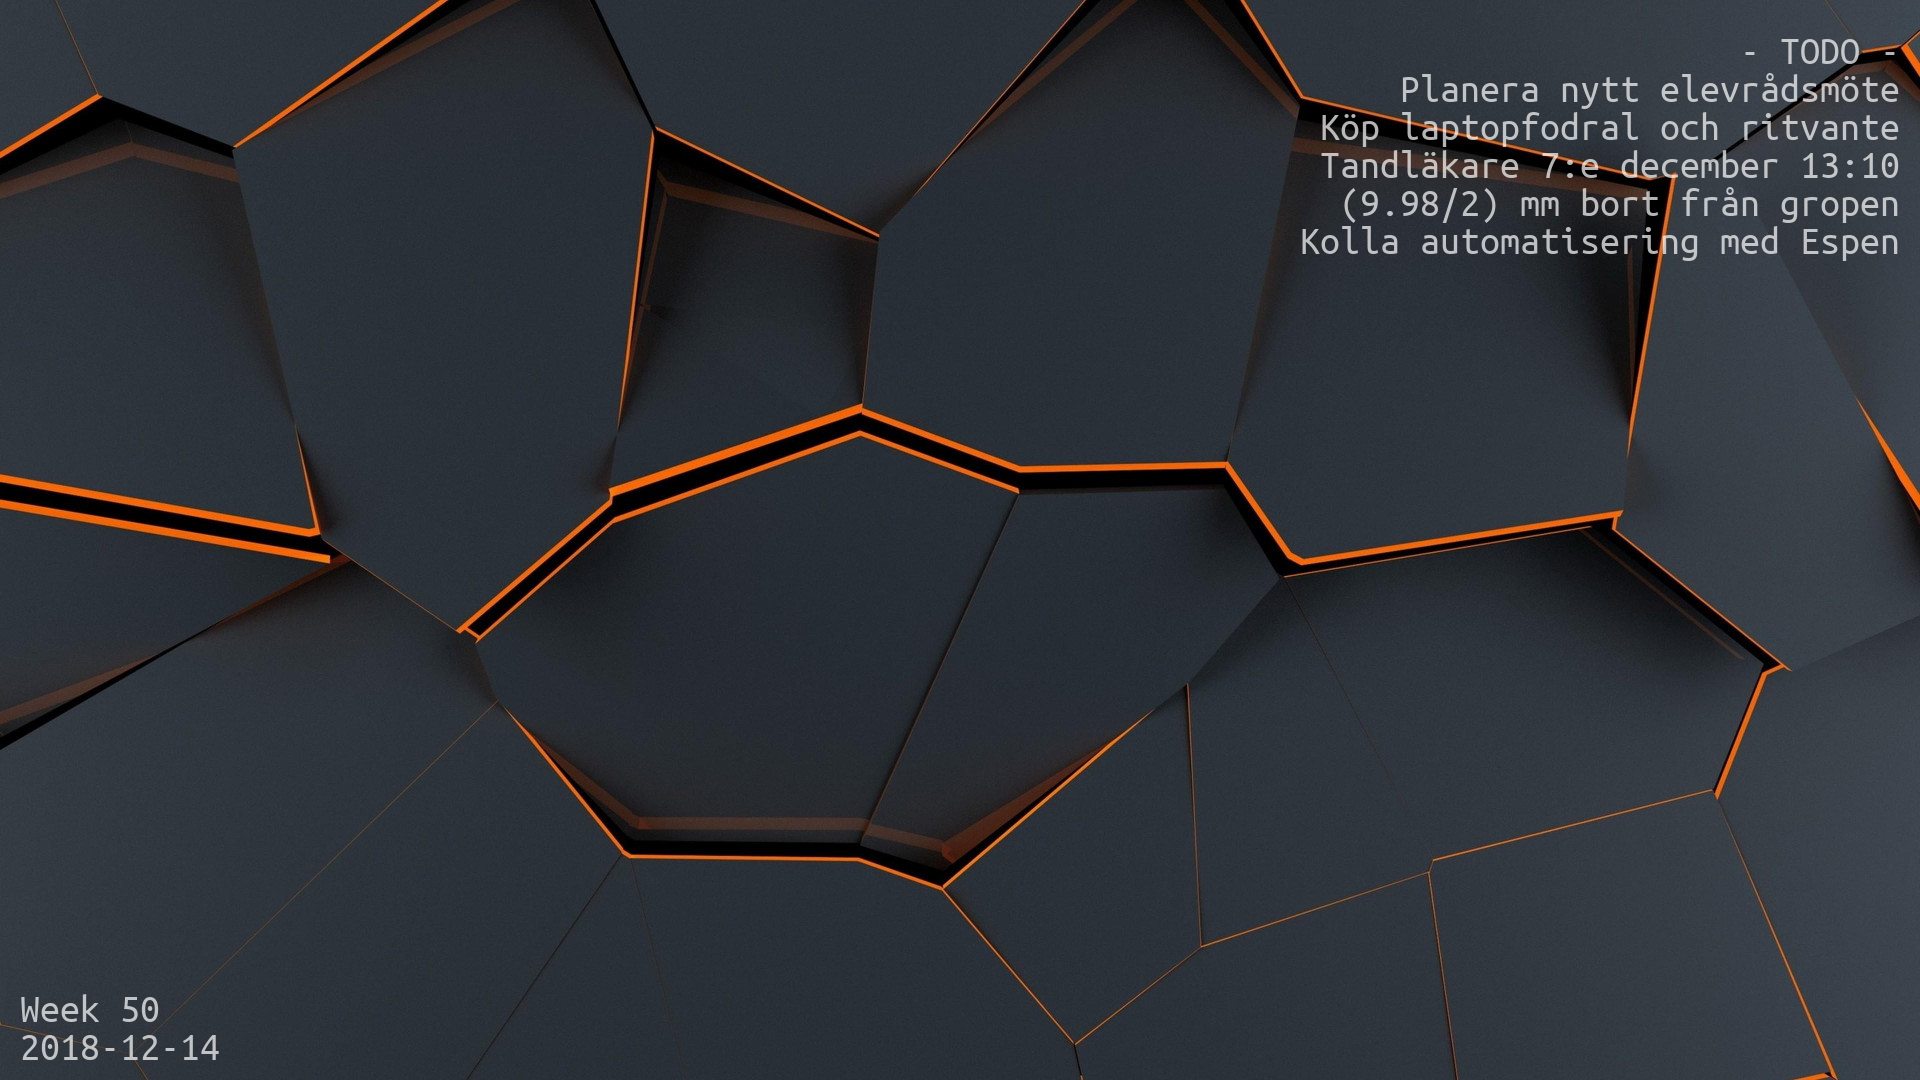
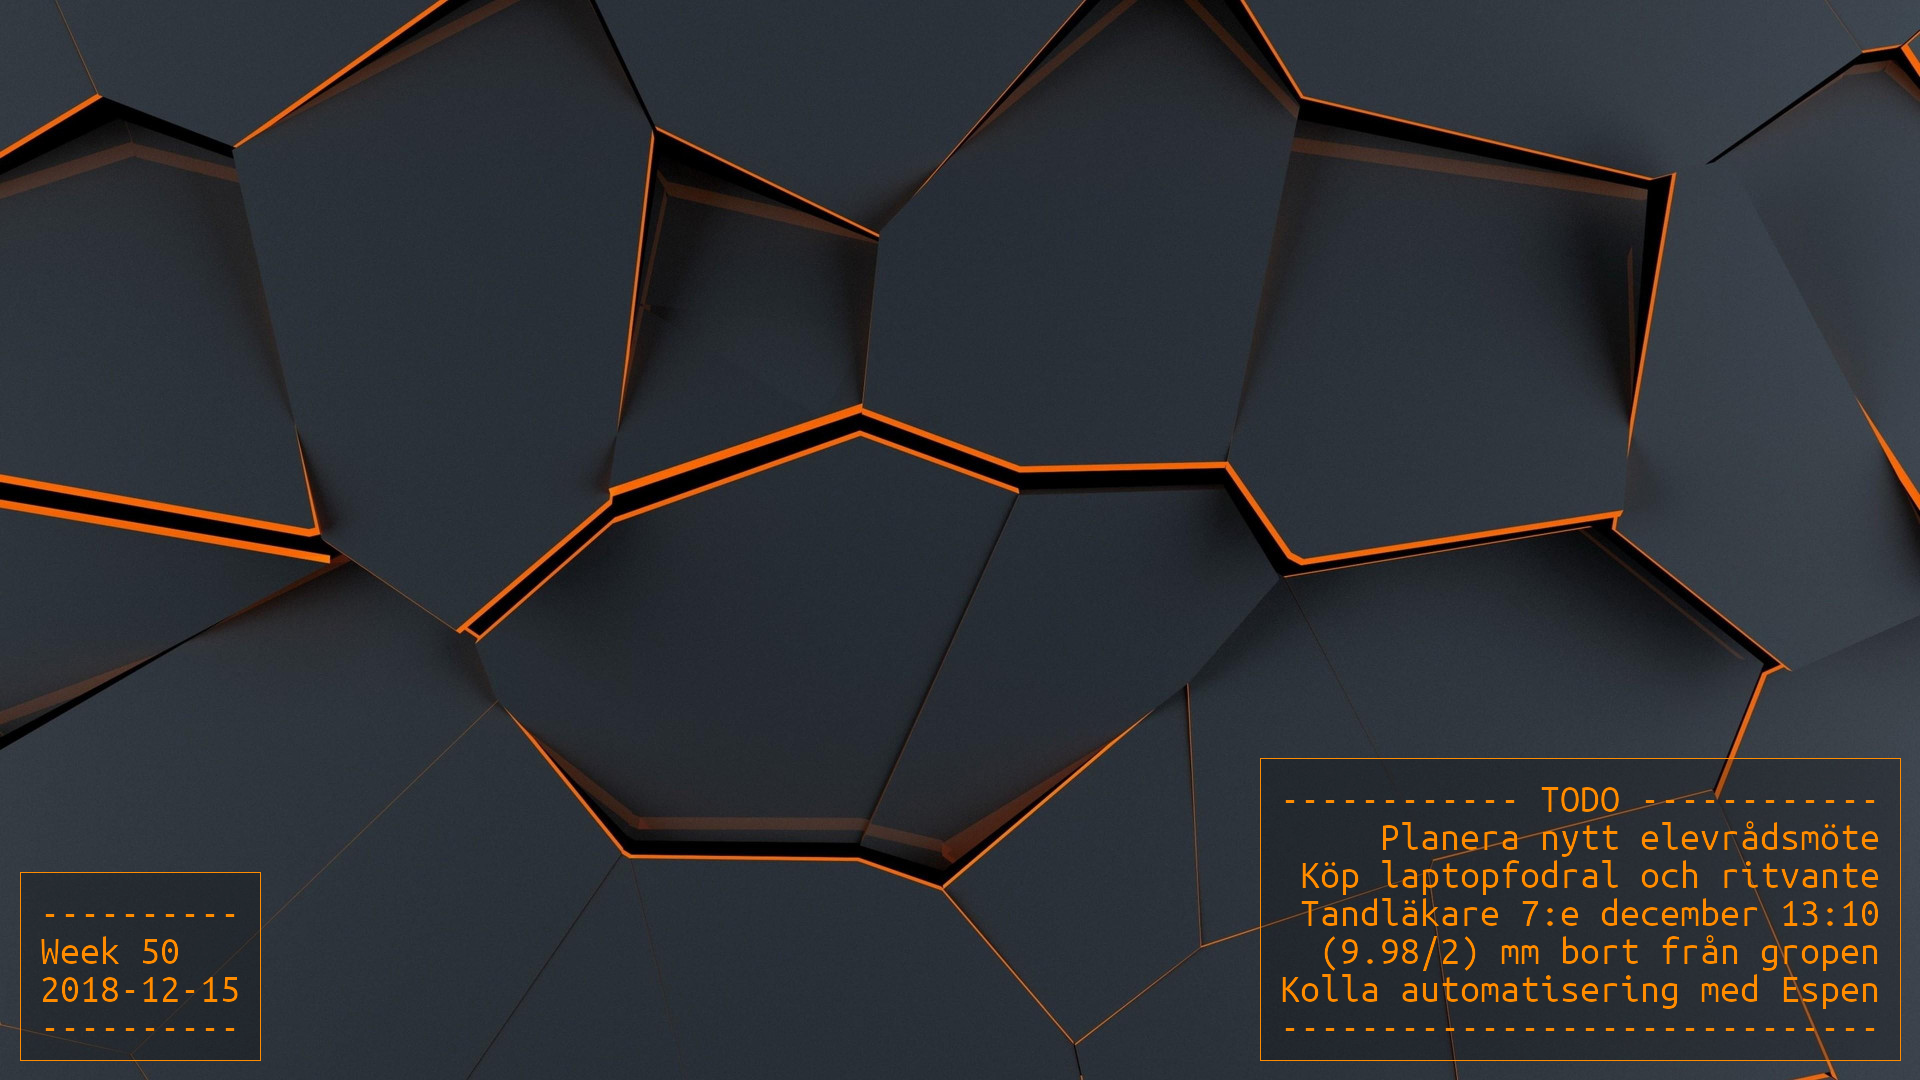
Changed text etcher

diff --git a/scripts/text-etching/etch.py b/scripts/text-etching/etch.py
@@ -3,18 +3,53 @@ from datetime import datetime, date
 from PIL import Image, ImageDraw, ImageFont
 from settings import *
 
+TEXT_COLOR = (255, 140, 0, 255)
+BOX_PADDING = 20
+
 def etch_text(text):
-    output_txt1 = "\nWeek " + str(datetime.now().isocalendar()[1]) + "\n"
+    output_txt1 = "----------\nWeek " + str(datetime.now().isocalendar()[1]) + "\n"
     output_txt1 += str(datetime.now().date())
+    output_txt1 += "\n----------"
 
     output_txt = text
     base = Image.open(BASE_IMAGE_PATH).convert('RGBA')
     txt = Image.new('RGBA', base.size, (255,255,255,0))
     fnt = ImageFont.truetype(FONT_PATH, FONT_SIZE)
 
+
     d = ImageDraw.Draw(txt)
-    d.multiline_text((base.size[0] - d.textsize(output_txt, fnt)[0] - 20,DOCK_HEIGHT), output_txt, font=fnt, align="right", fill=(255,255,255,180))
-    d.multiline_text((20, base.size[1] - d.textsize(output_txt1, fnt)[1] - 20 ), output_txt1, font=fnt, align="left", fill=(255, 255, 255, 180))
+
+    left_text_pos = [40, base.size[1] - d.textsize(output_txt1, fnt)[1] - 40]
+    right_text_pos = [base.size[0] - d.textsize(output_txt, fnt)[0] - 40, base.size[1] - d.textsize(output_txt, fnt)[1] - 40]
+
+    left_text_size = d.textsize(output_txt1, fnt)
+    right_text_size = d.textsize(output_txt, fnt)
+
+    left_text_end = [left_text_pos[0]+left_text_size[0], left_text_pos[1]+left_text_size[1]]
+    right_text_end = [right_text_pos[0]+right_text_size[0], right_text_pos[1]+right_text_size[1]]
+
+    left_box_pos = left_text_pos[::]
+    left_box_pos[0] -= BOX_PADDING
+    left_box_pos[1] -= BOX_PADDING
+
+    left_box_end = left_text_end[::]
+    left_box_end[0] += BOX_PADDING
+    left_box_end[1] += BOX_PADDING
+
+    right_box_pos = right_text_pos[::]
+    right_box_pos[0] -= BOX_PADDING
+    right_box_pos[1] -= BOX_PADDING
+
+    right_box_end = right_text_end[::]
+    right_box_end[0] += BOX_PADDING
+    right_box_end[1] += BOX_PADDING
+    
+    # FIXA POSITION
+    d.rectangle(left_box_pos + left_box_end, fill=(0, 0, 0, 60), outline=TEXT_COLOR)
+    d.rectangle(right_box_pos + right_box_end, fill=(0, 0, 0, 60), outline=TEXT_COLOR)
+
+    d.multiline_text(right_text_pos, output_txt, font=fnt, align="right", fill=TEXT_COLOR)
+    d.multiline_text(left_text_pos, output_txt1, font=fnt, align="left", fill=TEXT_COLOR)
 
     out = Image.alpha_composite(base, txt)
     out.save(path.dirname(path.abspath(__file__)) + "/etched-wp.png")

diff --git a/scripts/text-etching/main.py b/scripts/text-etching/main.py
@@ -3,9 +3,17 @@ from subprocess import call
 from etch import etch_text
 from tasklist import get_tasks
 from settings import *
+from math import ceil
 
 def etch_wallpaper():
-    etch_text("- TODO -\n" + get_tasks(TASK_FILE, as_text=True))
+    all_tasks = get_tasks(TASK_FILE, as_text=False)
+    longest = max(all_tasks, key=len)
+    longest_half_len = ceil(float(len(longest))/2)
+    print(len(longest))
+    print(longest_half_len)
+    todo_line = "-" * (longest_half_len - 4) + "- TODO -" + "-" * (longest_half_len - 4) + "\n"
+    print(len(todo_line))
+    etch_text(todo_line + get_tasks(TASK_FILE, as_text=True) + "-" * (len(todo_line) - 1))
     cwd = path.dirname(path.abspath(__file__))
     system(FEH_PATH + " --bg-scale " + cwd + "/etched-wp.png")
 
